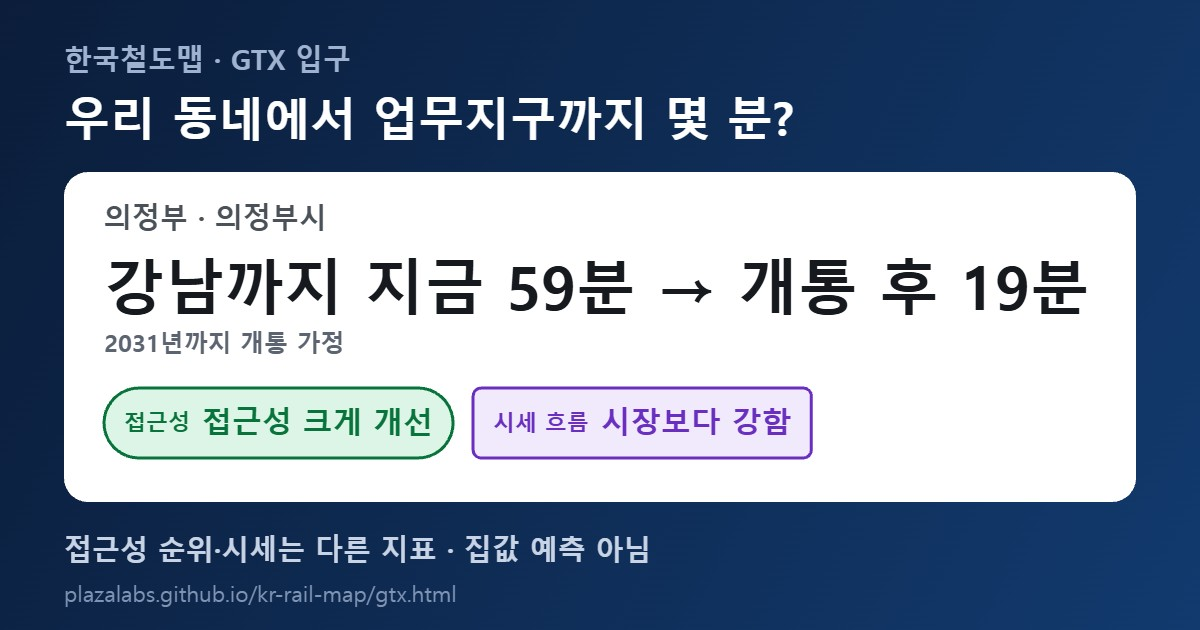
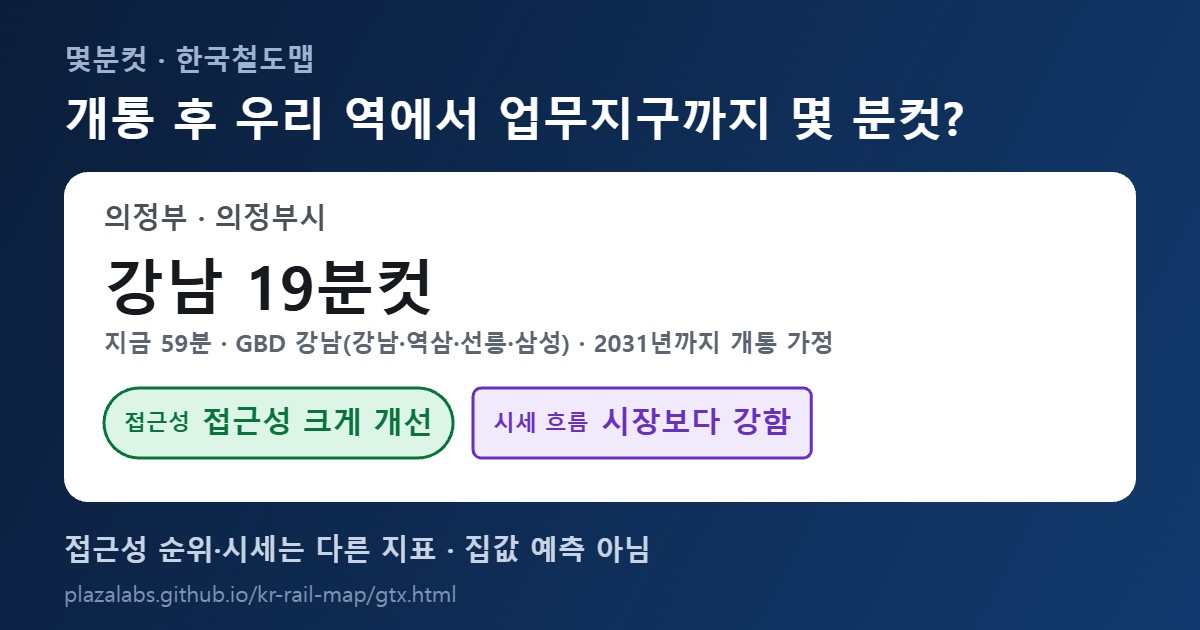
feat(84): GTX 입구 → 몇분컷 — 제목·og 에 GTX 없음, 큰 숫자 '강남 19분컷' + '지금 59분 · …' 한 줄 고정 (v311)
같음은 '컷' 없이 '{업무지구} N분 · 개통 후에도 같음', 새로 생김은 '지금은 철도로 못 감'.
공유 그림·og 그림 같은 두 줄, 이름 줄 '몇분컷 · 한국철도맵'. 파일 이름·umami 이벤트는 그대로.

Claude-Session: https://claude.ai/code/session_0191yEh2uapvYzTcVwrNJHWz

diff --git a/js/gtx-page.js b/js/gtx-page.js
@@ -1,4 +1,4 @@
-/* GTX 입구 (gtx.html) — 입력 하나 → 카드 하나.
+/* 몇분컷 (gtx.html) — 입력 하나 → 카드 하나.
  * 숫자는 data/gtx-card.json(build_gtx_card.js)·data/rank-top.json 그대로 읽는다. 여기서 세지 않는다. */
 (function () {
   'use strict';
@@ -17,10 +17,20 @@
   function bigText(x) {
     var d = x.d == null ? null : D.dest[x.d];
     if (!d) return { main: '업무지구까지 철도로 갈 수 없어요', sub: '' };
-    if (x.kd === 'new') return { main: d.name + '까지 지금은 못 감 → 개통 후 ' + x.aft[x.d] + '분', sub: d.label };
-    if (x.kd === 'same') return { main: d.name + '까지 ' + x.now[x.d] + '분 · 개통 후에도 같음', sub: d.label };
-    return { main: d.name + '까지 지금 ' + x.now[x.d] + '분 → 개통 후 ' + x.aft[x.d] + '분', sub: d.label };
+    var tail = ' · ' + d.label + ' · ' + D.year + '년까지 개통 가정';
+    // '컷'은 줄거나 새로 생길 때만. 같은데 붙이면 거짓말
+    if (x.kd === 'same') return { main: d.name + ' ' + x.now[x.d] + '분', sub: '개통 후에도 같음' + tail };
+    if (x.kd === 'new') return { main: d.name + ' ' + x.aft[x.d] + '분컷', sub: '지금은 철도로 못 감' + tail };
+    return { main: d.name + ' ' + x.aft[x.d] + '분컷', sub: '지금 ' + x.now[x.d] + '분' + tail };
   }
+  // 큰 줄은 한 줄 고정 — 넘치면 글자를 줄인다(공유 그림 fit 과 같은 생각). 줄바꿈으로 풀지 않는다
+  function fitBig() {
+    var e = document.querySelector('#card .big-main'); if (!e) return;
+    e.style.fontSize = '';
+    var s = parseFloat(getComputedStyle(e).fontSize);
+    while (s > 16 && e.scrollWidth > e.clientWidth) { s--; e.style.fontSize = s + 'px'; }
+  }
+  window.addEventListener('resize', fitBig);
   function marketOf(x) { return x.k && D.k[x.k] ? D.k[x.k] : null; }
   function marketKey(x) { var k = marketOf(x); return k ? k.m : 'none'; }
   function marketNote(x) {
@@ -37,9 +47,11 @@
     $('pick').hidden = true;
     card.innerHTML = ''; card.hidden = false; card.dataset.st = id;
     card.appendChild(el('p', 'st', x.n + (x.g ? ' · ' + x.g : '')));
-    var b = bigText(x), big = el('p', 'big', b.main);
-    if (b.sub) big.appendChild(el('small', null, b.sub + ' · ' + D.year + '년까지 개통 가정'));
+    var b = bigText(x), big = el('p', 'big'), main = el('span', 'big-main', b.main);
+    big.appendChild(main);
+    if (b.sub) big.appendChild(el('small', null, b.sub));
     card.appendChild(big);
+    fitBig();
     var chips = el('div', 'chips');
     var ca = el('button', 'chip acc'); ca.type = 'button'; ca.appendChild(el('span', null, '접근성')); ca.appendChild(document.createTextNode(G.TIER_WORD[x.t]));
     var mk = marketKey(x), cm = el('button', 'chip mk ' + mk); cm.type = 'button'; cm.appendChild(el('span', null, '시세 흐름')); cm.appendChild(document.createTextNode(G.MARKET_WORD[mk]));
@@ -90,7 +102,7 @@
     var fit = function (t, w, size, weight) { var s = size; g.font = weight + ' ' + s + 'px ' + F; while (s > 20 && g.measureText(t).width > w) { s--; g.font = weight + ' ' + s + 'px ' + F; } };
     g.fillStyle = '#c8d3e6'; fit(x.n + (x.g ? ' · ' + x.g : ''), S - 160, 44, '700'); g.fillText(x.n + (x.g ? ' · ' + x.g : ''), 80, 150);
     var b = bigText(x); g.fillStyle = '#ffffff'; fit(b.main, S - 160, 64, '800'); g.fillText(b.main, 80, 280);
-    g.fillStyle = '#9fb3d1'; fit(b.sub + ' · ' + D.year + '년까지 개통 가정', S - 160, 30, '600'); g.fillText(b.sub + ' · ' + D.year + '년까지 개통 가정', 80, 335);
+    if (b.sub) { g.fillStyle = '#9fb3d1'; fit(b.sub, S - 160, 30, '600'); g.fillText(b.sub, 80, 335); }
     var chip = function (label, word, y, color) { g.font = '600 30px ' + F; g.fillStyle = '#9fb3d1'; g.fillText(label, 80, y); g.font = '800 46px ' + F; g.fillStyle = color; g.fillText(word, 300, y); };
     chip('접근성', G.TIER_WORD[x.t], 470, '#4fd88a');
     chip('시세 흐름', G.MARKET_WORD[marketKey(x)], 560, '#c4a3ff');
@@ -99,7 +111,7 @@
     var k = marketOf(x); if (k) line('시세는 대표 동 ' + k.dong + ' 기준');
     line('접근성 순위와 시세는 다른 지표 · 집값 예측 아님');
     line('기준일 순위 ' + D.updated + ' · 시세 ' + half(D.market.from) + ' → ' + half(D.market.to));
-    g.fillStyle = '#9fb3d1'; fit('한국철도맵 · plazalabs.github.io/kr-rail-map/gtx.html', S - 160, 28, '700'); g.fillText('한국철도맵 · plazalabs.github.io/kr-rail-map/gtx.html', 80, 1030);
+    g.fillStyle = '#9fb3d1'; fit('몇분컷 · 한국철도맵 · plazalabs.github.io/kr-rail-map/gtx.html', S - 160, 28, '700'); g.fillText('몇분컷 · 한국철도맵 · plazalabs.github.io/kr-rail-map/gtx.html', 80, 1030);
     return c;
   }
   function share(id, x) {
@@ -108,14 +120,14 @@
     var url = location.origin + location.pathname + '?st=' + encodeURIComponent(id) + '&ref=card-gtx';
     shareCanvas(id, x).toBlob(function (blob) {
       if (!blob) { result('만들기 실패'); msg.textContent = '이미지를 만들지 못했어요.'; return; }
-      var name = 'GTX입구_' + x.n + '.png', file = typeof File === 'function' ? new File([blob], name, { type: 'image/png' }) : null;
+      var name = '몇분컷_' + x.n + '.png', file = typeof File === 'function' ? new File([blob], name, { type: 'image/png' }) : null;
       var save = function () {
         var a = document.createElement('a'); a.href = URL.createObjectURL(blob); a.download = name; document.body.appendChild(a); a.click(); a.remove();
         setTimeout(function () { URL.revokeObjectURL(a.href); }, 4000);
         result('저장'); msg.textContent = '카드 그림을 저장했어요. 링크: ' + url;
       };
       if (file && navigator.canShare && navigator.canShare({ files: [file] })) {
-        navigator.share({ files: [file], title: x.n + ' GTX 개통 후', text: url })
+        navigator.share({ files: [file], title: x.n + ' 몇분컷', text: url })
           .then(function () { result('공유함'); msg.textContent = '공유했어요.'; })
           .catch(function (e) { if (e && e.name === 'AbortError') result('취소'); else save(); });
       } else save();

diff --git a/gtx.html b/gtx.html
@@ -4,7 +4,7 @@
 <meta charset="utf-8">
 <meta http-equiv="Content-Security-Policy" content="default-src 'self'; script-src 'self' https://cloud.umami.is; style-src 'self' 'unsafe-inline'; img-src 'self' data: blob:; font-src 'self' data:; connect-src 'self' https://cloud.umami.is https://api-gateway.umami.dev https://gateway.umami.is; worker-src 'self' blob:; frame-src 'none'; object-src 'none'; base-uri 'self'; form-action 'self'; manifest-src 'self'">
 <meta name="viewport" content="width=device-width, initial-scale=1">
-<title>GTX 입구 | 한국철도맵</title>
+<title>몇분컷 | 한국철도맵</title>
 <meta name="description" content="역 이름이나 동 이름을 넣으면 업무지구까지 지금과 개통 후 걸리는 시간, 교통 접근성 변화, 그 동네 시세 흐름을 카드 한 장으로 보여 줍니다. 집값 예측이 아닙니다.">
 <link rel="icon" type="image/png" href="icons/icon-192.png">
 <link rel="canonical" href="https://plazalabs.github.io/kr-rail-map/gtx.html">
@@ -12,14 +12,14 @@
 <meta property="og:site_name" content="한국철도맵">
 <meta property="og:locale" content="ko_KR">
 <meta property="og:url" content="https://plazalabs.github.io/kr-rail-map/gtx.html">
-<meta property="og:title" content="GTX 개통 후 우리 동네에서 업무지구까지 몇 분? | 한국철도맵">
+<meta property="og:title" content="개통 후 우리 역에서 업무지구까지 몇 분컷? | 몇분컷">
 <meta property="og:description" content="역이나 동 이름을 넣으면 도심·여의도·강남까지 지금과 개통 후 시간, 접근성 변화, 동네 시세 흐름을 카드 한 장으로. 접근성과 시세는 다른 지표 · 집값 예측 아님.">
 <meta property="og:image" content="https://plazalabs.github.io/kr-rail-map/image/og-gtx.jpg">
 <meta property="og:image:width" content="1200">
 <meta property="og:image:height" content="630">
-<meta property="og:image:alt" content="GTX 입구 카드 예시 — 업무지구까지 지금과 개통 후 시간">
+<meta property="og:image:alt" content="몇분컷 카드 예시 — 업무지구까지 지금과 개통 후 시간">
 <meta name="twitter:card" content="summary_large_image">
-<meta name="twitter:title" content="GTX 개통 후 우리 동네에서 업무지구까지 몇 분?">
+<meta name="twitter:title" content="개통 후 우리 역에서 업무지구까지 몇 분컷? | 몇분컷">
 <meta name="twitter:description" content="업무지구까지 지금 → 개통 후 시간, 접근성 변화, 시세 흐름 — 집값 예측 아님.">
 <meta name="twitter:image" content="https://plazalabs.github.io/kr-rail-map/image/og-gtx.jpg">
 <meta name="theme-color" content="#1b64da">
@@ -41,7 +41,8 @@ header.top .wrap{padding:13px 16px;display:flex;align-items:center;gap:10px}
 .logo{font-weight:700;font-size:17px;text-decoration:none;color:var(--text);white-space:nowrap}
 header.top nav{margin-left:auto;display:flex;gap:14px;font-size:13px}
 header.top nav a{text-decoration:none;color:var(--text2);white-space:nowrap}
-h1{font-size:24px;line-height:1.3;letter-spacing:-.035em;margin:26px 0 12px}
+.name{font-size:14px;font-weight:800;color:var(--accent);margin:26px 0 4px}
+h1{font-size:24px;line-height:1.3;letter-spacing:-.035em;margin:0 0 12px}
 .lede{color:var(--text2);font-size:14px;margin:0 0 14px}
 .search{position:relative}
 .search input{width:100%;font:inherit;font-size:18px;padding:14px 16px;border:2px solid var(--accent);border-radius:14px;background:var(--card);color:var(--text);min-height:52px}
@@ -56,6 +57,7 @@ h1{font-size:24px;line-height:1.3;letter-spacing:-.035em;margin:26px 0 12px}
 .card{margin:20px 0 0;padding:22px 20px;border-radius:var(--r-card);background:var(--card);box-shadow:var(--shadow);border:1px solid var(--border)}
 .card .st{font-size:15px;font-weight:700;margin:0 0 6px}
 .big{font-size:30px;font-weight:800;letter-spacing:-.03em;line-height:1.25;margin:4px 0 14px}
+.big-main{display:block;white-space:nowrap;overflow:hidden}
 .big small{display:block;font-size:14px;font-weight:600;color:var(--text2);letter-spacing:0}
 .chips{display:flex;gap:10px;flex-wrap:wrap;margin:0 0 14px}
 .chip{display:inline-flex;align-items:center;gap:8px;min-height:44px;padding:8px 14px;font-size:15px;font-weight:700;cursor:pointer;background:none}
@@ -82,7 +84,8 @@ footer{font-size:12px;color:var(--muted);margin:30px 0 0}
 <header class="top"><div class="wrap"><a class="logo" href="./">한국철도맵</a>
 <nav><a href="./">지도</a><a href="rank.html">순위</a><a href="data.html">자료</a></nav></div></header>
 <main class="wrap">
-<h1>우리 동네, GTX 개통 후 업무지구까지 몇 분?</h1>
+<p class="name">몇분컷</p>
+<h1>개통 후 우리 역에서 업무지구까지 몇 분컷?</h1>
 <p class="lede">교통 접근성과 시세 흐름을 따로 보여 줍니다. 둘은 서로 다른 지표이며 집값·투자수익 예측이 아닙니다.</p>
 <div class="search" role="search">
   <label for="q" class="small">역 이름이나 동 이름</label>

diff --git a/data/build_og_gtx.js b/data/build_og_gtx.js
@@ -1,7 +1,8 @@
-/* GTX 입구 링크 미리보기 그림 — image/og-gtx.jpg (1200×630, JPEG)
+/* 몇분컷(gtx.html) 링크 미리보기 그림 — image/og-gtx.jpg (1200×630, JPEG)
  *
  * 실행: node data/build_og_gtx.js   (build_gtx_card.js 뒤. 헤드리스 크롬으로 캔버스를 그려 저장 — build_og_rank.js 와 같은 방식)
  * 정적 사이트라 역마다 다른 그림은 못 만든다 — 공용 하나. 큰 숫자 예시는 홈 TOP1 역의 카드 값(gtx-card.json) 그대로.
+ * 큰 숫자 두 줄은 화면 카드(js/gtx-page.js bigText)와 같은 말: '{업무지구} N분컷' / '지금 N분 · {라벨}'.
  * 카드 규칙의 금지어('떡상'·'계단' 등)를 쓰지 않는다.
  */
 'use strict';
@@ -21,7 +22,8 @@ const d = card.dest[x.d];
 const mk = x.k && card.k[x.k] ? card.k[x.k].m : 'none';
 const ex = {
   st: x.n + (x.g ? ' · ' + x.g : ''),
-  big: d.name + '까지 지금 ' + x.now[x.d] + '분 → 개통 후 ' + x.aft[x.d] + '분',
+  big: d.name + ' ' + x.aft[x.d] + '분컷',
+  sub: '지금 ' + x.now[x.d] + '분 · ' + d.label + ' · ' + card.year + '년까지 개통 가정',
   acc: G.TIER_WORD[x.t], mk: G.MARKET_WORD[mk], year: card.year,
 };
 const words = Object.values(ex).join(' ');
@@ -33,13 +35,13 @@ const E = ${JSON.stringify(ex)};
 const g = document.getElementById('c').getContext('2d'), F = '"Malgun Gothic","Apple SD Gothic Neo",sans-serif';
 const bg = g.createLinearGradient(0, 0, 1200, 630); bg.addColorStop(0, '#0b1d3a'); bg.addColorStop(1, '#123a6e'); g.fillStyle = bg; g.fillRect(0, 0, 1200, 630);
 const rr = (x, y, w, h, r) => { g.beginPath(); g.roundRect ? g.roundRect(x, y, w, h, r) : g.rect(x, y, w, h); };
-g.fillStyle = '#9fb3d1'; g.font = '600 28px ' + F; g.fillText('한국철도맵 · GTX 입구', 64, 70);
-g.fillStyle = '#fff'; g.font = '800 46px ' + F; g.fillText('우리 동네에서 업무지구까지 몇 분?', 64, 136);
+g.fillStyle = '#9fb3d1'; g.font = '600 28px ' + F; g.fillText('몇분컷 · 한국철도맵', 64, 70);
+g.fillStyle = '#fff'; g.font = '800 46px ' + F; g.fillText('개통 후 우리 역에서 업무지구까지 몇 분컷?', 64, 136);
 // 카드
 rr(64, 172, 1072, 330, 24); g.fillStyle = '#ffffff'; g.fill();
 g.fillStyle = '#4a5158'; g.font = '700 28px ' + F; g.fillText(E.st, 104, 228);
 g.fillStyle = '#16191d'; let s = 60; g.font = '800 ' + s + 'px ' + F; while (g.measureText(E.big).width > 990) { s--; g.font = '800 ' + s + 'px ' + F; } g.fillText(E.big, 104, 310);
-g.fillStyle = '#5b6470'; g.font = '600 24px ' + F; g.fillText(E.year + '년까지 개통 가정', 104, 352);
+g.fillStyle = '#5b6470'; s = 24; g.font = '600 ' + s + 'px ' + F; while (g.measureText(E.sub).width > 990) { s--; g.font = '600 ' + s + 'px ' + F; } g.fillText(E.sub, 104, 352);
 const chip = (x, label, word, fg, bgc, round) => { g.font = '800 30px ' + F; const w = g.measureText(word).width; g.font = '600 22px ' + F; const lw = g.measureText(label).width;
   const W = lw + w + 52; rr(x, 388, W, 70, round); g.fillStyle = bgc; g.fill(); g.lineWidth = 3; g.strokeStyle = fg; g.stroke();
   g.fillStyle = fg; g.font = '600 22px ' + F; g.fillText(label, x + 20, 431); g.font = '800 30px ' + F; g.fillText(word, x + 32 + lw, 433); return x + W + 20; };

diff --git a/data.html b/data.html
@@ -342,8 +342,8 @@ ODbL이 말하는 결과물(Produced Work)이라 지켜야 할 것은 출처 표
 </tbody></table></div>
 <!-- plans:end -->
 
-<h2 id="gtx-card">GTX 입구 카드 계산 방법</h2>
-<p><a href="gtx.html">GTX 입구</a> 카드는 교통 접근성과 시세 흐름을 <b>따로</b> 보여 줍니다. 둘을 한 점수로 합치지 않으며 집값 예측이 아닙니다. 값은 data/gtx-card.json 에 있습니다.</p>
+<h2 id="gtx-card">몇분컷 카드 계산 방법</h2>
+<p><a href="gtx.html">몇분컷</a> 카드는 교통 접근성과 시세 흐름을 <b>따로</b> 보여 줍니다. 둘을 한 점수로 합치지 않으며 집값 예측이 아닙니다. 값은 data/gtx-card.json 에 있습니다.</p>
 <ul class="plain">
 <li><b>큰 숫자</b> — 도심(CBD)·여의도(YBD)·강남(GBD) 세 업무지구 중 지금보다 개통 후 가장 많이 줄어드는 곳 하나를 씁니다. 줄어든 분이 같으면 개통 후가 더 짧은 곳, 그래도 같으면 도심 → 여의도 → 강남 순입니다.
 지금 철도로 못 가는 역은 개통 후 가장 가까운 곳, 줄어드는 곳이 없으면 지금 가장 가까운 곳을 씁니다. 시간은 순위표와 같은 값(2031년까지 개통 가정, 배차 넣기 끔)입니다.</li>

diff --git a/sw.js b/sw.js
@@ -4,11 +4,11 @@
  *  - GeoJSON 데이터: Cache First (최초 로드 후 캐시)
  *  - 지도 타일: Network First (오프라인이면 캐시된 타일만, 최대 200개)
  */
-const APP_CACHE = 'kr-rail-map-app-v310';
+const APP_CACHE = 'kr-rail-map-app-v311';
 // 실거래 자료 달 — 매달 자동 갱신(.github/workflows/data-refresh.yml)이 바꾼다. 데이터는 캐시 우선이라
 // 이름이 바뀌어야 다시 찾은 사람도 새 시세를 받는다.
 const DATA_REV = '202609';
-const DATA_CACHE = 'kr-rail-map-data-v310-r' + DATA_REV;
+const DATA_CACHE = 'kr-rail-map-data-v311-r' + DATA_REV;
 const TILE_CACHE = 'kr-rail-map-tiles-v1';
 const MAX_TILE_ENTRIES = 200;
 

diff --git a/CHANGELOG.md b/CHANGELOG.md
@@ -4,6 +4,7 @@
 코드 안에 날짜·피드백 번호 주석을 다는 대신 여기에 적는다.
 
 ## 2026-11-21
+- 2026-11-21 · v311 · 숙제 84 (회장 결정 11-21) · **GTX 입구 → 몇분컷 + 큰 숫자 한 줄** — gtx.html 제목·og:title·og:image:alt·twitter:title·화면 제목에서 'GTX 입구'와 'GTX' 글자를 뺌('몇분컷 | 한국철도맵', og:title '개통 후 우리 역에서 업무지구까지 몇 분컷? | 몇분컷', og:site_name 은 한국철도맵 그대로). 큰 숫자를 '강남까지 지금 59분 → 개통 후 19분' 한 줄에서 두 줄로: 큰 줄 '강남 19분컷', 작은 줄 '지금 59분 · GBD 강남(…) · 2031년까지 개통 가정'. 새로 생김은 '지금은 철도로 못 감 · …', 같음은 큰 줄 '여의도 22분'(오류동, 컷 없음) + '개통 후에도 같음 · …'. 큰 줄은 한 줄 고정, 넘치면 글자를 줄임(줄바꿈 안 함). 공유 그림 같은 두 줄, 이름 줄 '몇분컷 · 한국철도맵 · …/gtx.html', 저장 파일 이름 '몇분컷_역.png'. og 그림 image/og-gtx.jpg 다시 구움. data.html 절 이름·링크 글자 '몇분컷'. 파일 이름(gtx.html·gtx-card.json·gtx-page.js)·umami 이벤트('GTX 입구 검색'·card-gtx)는 그대로. 회귀 R-84(e2e 7 · 데이터 1, 먼저 실패 확인), R-81 큰 줄 기대를 새 글자로.
 - 2026-11-21 · v309 · 숙제 83 · **gtx.html 링크 미리보기** — og/twitter 태그가 0개라 카톡에 링크를 붙이면 그림 없이 떴다. rank.html·index.html 과 같은 형식으로 og:type·site_name·locale·url·title·description('집값 예측 아님' 포함)·image(1200×630)·twitter:card 추가. 그림 image/og-gtx.jpg 는 data/build_og_gtx.js 가 홈 TOP1 역(의정부)의 gtx-card.json 값으로 카드 모양을 그림('강남까지 지금 59분 → 개통 후 19분' · 접근성 크게 개선 · 시장보다 강함 · '접근성 순위·시세는 다른 지표 · 집값 예측 아님'), 금지어 있으면 멈춤. 정적 사이트라 역마다 다른 미리보기는 없음 — 공용 하나. 회귀 R-83(태그·그림 1200×630 JPEG, 먼저 실패 확인).
 - 2026-11-21 · v308 · 숙제 81 검수 · **GTX 입구 자세히 보기 고침** — 전세가율이 없는 역(짝 3개 미만, 보산 j=[null,1])이 '전세가율 0%'로 나오던 것 → '비율 없음 (짝 3개 미만)'. 중위 평당가가 station-price(다른 기간) 값이라 옆의 반기 거래 건수와 기간이 달랐던 것 → 시세 라벨과 같은 station-trend 의 비교 끝 반기(2026 상반기) 법정동 중위값, '전용면적 기준, 2026 상반기' 표시(의정부동 2,344 → 2,403만 원). data.html 에 'GTX 입구 카드 계산 방법' 절(#gtx-card), 카드 '계산 방법' 링크를 그 절로. 회귀 R-81 3개 먼저 실패 확인.
 - 2026-11-21 · v307 · 숙제 81 · **GTX 입구 gtx.html (MVP)** — 역·동 이름 하나 넣으면 카드 한 장: 업무지구 하나까지 '지금 N분 → 개통 후 M분'(CBD·YBD·GBD 중 가장 많이 줄어든 곳, rank.json now·y[2031]), 접근성 말(rank-page 공유 그림과 같은 표기) 칩, 시세 흐름 칩(법정동 2025H1→2026H1 중위 평당가 변화율, 라벨 동 282곳의 25/75% 선형 보간 경계, 두 반기 중 하나라도 10건 미만이면 판단 보류, 자료 없는 역은 '시세 자료 없음'). 두 칩은 색·모양이 달라 한 점수로 읽히지 않게. 자료는 data/gtx-card.json(build_gtx_card.js, 순위가 rank-station.json 과 다르면 빌드 멈춤). 공유 card-gtx, 새 이벤트 'GTX 입구 검색'. 기준 문서 결정_GTX입구_20261121.md.

diff --git a/docs/RUN-LOG.md b/docs/RUN-LOG.md
@@ -289,3 +289,11 @@
 - rank-top.json · rank-station.json: 바이트까지 같음(의정부·인천대입구·덕정 2031). rank.json 은 lines.y 말고 같음
 - 길찾기 비교 카드에서 GTX-G·H 는 전 '(계획 · 2030년대)'(설명 글 그대로) → 후 '(계획)'. 연도 없는 노선은 상태 말만 — 지도 라벨(74)과 같은 규칙
 | 76 | 노선 글자 함수 하나로: js/line-status.js `LineStatus.label(m)`(계획·구상 '이름 (상태 말)', 공사 중 '이름 연도' — 연도는 77 의 y). station-share.js planLabel 은 그것을 부르기만, rank-page.js 공유 그림(손으로 베낀 사본, '(계획)' 고정)도 같은 함수. rank.html 에 line-status.js 를 rank-page.js 앞에. sw.js v310. rank.html 광운대 공유 그림 '새 노선 GTX-C 2031 · GTX-E (계획)' → 'GTX-E (구상)', 수서 'GTX-D (계획)' 그대로. R-76 e2e 2개(공유 그림 글자 · 공유 단추 눌러도 페이지 오류 0) + 데이터 1개(같은 함수 · 스크립트 순서 · 값) 먼저 실패 확인 → 통과. task-life.e2e 의 옛 기대('GTX-E (계획)', 66 전 규칙)를 '(구상)'으로. 데이터 60 통과/2 실패, 단위 72/72, e2e rank 35/0·share-line 8/0·line-status 30/0·task-life 11/0·rocket-panel 37/0·home-cards 10/0, Playwright 전체 34 통과/10 실패 — 10개(E-02·03·21·22·31·32·40~43)는 INVARIANTS.md 에 이미 FAIL, E-02·E-03 은 6e13858(블록 전)에서도 같은 오류(시험 쪽 정규식 null)로 실패 | (이 커밋) | 데이터 2 |
+
+## 블록 G (2026-11-21 저녁, 지시서 `지시서_블록G_20261121.md`)
+시작 기준선: main c57143e(v310, 블록 F 배포 끝) · 데이터 시험 61 통과 / 실패 2(D-13·D-15) · 시험 출력 `scratch/blockG/`. 순서 84 → 85. 걸리는 시간 미리 말함: 3~4시간
+
+### 숙제별 한 줄
+| 번호 | 한 일 | 커밋 | 남은 실패 |
+|---|---|---|---|
+| 84 | GTX 입구 → 몇분컷. gtx.html title·og:title·og:image:alt·twitter:title·h1 에 'GTX' 0(og:site_name 한국철도맵 그대로), 이름 줄 '몇분컷'. 큰 숫자 bigText: 큰 줄 '{업무지구} N분컷'(같음은 '{업무지구} N분', 컷 없음) + 작은 줄 '지금 N분 / 지금은 철도로 못 감 / 개통 후에도 같음 · {label} · 2031년까지 개통 가정'. 큰 줄 `.big-main` 한 줄 고정 + 넘치면 글자 줄임(fitBig, resize 때 다시). 공유 그림 두 줄·이름 줄 '몇분컷 · 한국철도맵 · …/gtx.html'·파일 이름 '몇분컷_역.png'. og-gtx.jpg 다시 구움('몇분컷 · 한국철도맵' / '강남 19분컷' / '지금 59분 · GBD 강남(…) · 2031년까지 개통 가정', 눈으로 확인). data.html 절 이름·링크 '몇분컷'. R-84 e2e 7(의정부 cut·오류동 same·동명초교(가칭) new·360/390px 회기·의정부 한 줄·태그) + 데이터 1 → 고치기 전 e2e 6 실패·데이터 1 실패 확인 → 고친 뒤 gtx-page 12/0, og-gtx 3/0, gtx-card·contrast-pages·csp-pages·no-emoji·track 통과, 데이터 61/2. 파일 이름·umami 이벤트 그대로 | (이 커밋) | 데이터 2 |

diff --git a/docs/TODO.md b/docs/TODO.md
@@ -89,6 +89,8 @@
 - [x] 81. (지시서 블록 E 11-21) GTX 입구 MVP — gtx.html · data/gtx-card.json (v307, push 전). 보고 `구현보고_GTX입구_20261121.md`. 상세 `TASK_GTX입구_MVP_20261121.md`, 기준 `결정_GTX입구_20261121.md`
 - [ ] 82. (다음 블록 후보, 검수 11-21) 길찾기 중 updateFilters(노선 표시 바꾸기)가 station-labels filter 를 덮어 경로 역 원래 글자가 다시 나옴 — app.js updateFilters 의 station-labels setFilter vs highlightRoute 의 경로 역 빼기 filter
 - [x] 83. (검수 11-21, 배포본 v308) gtx.html 링크 미리보기(og·twitter 태그) 없음 → 태그 + 공용 그림 image/og-gtx.jpg (v309)
+- [x] 84. (지시서 블록 G 11-21, 회장 결정 `결정_앱이름_20261121.md` 추가 결정) GTX 입구 → 몇분컷. gtx.html 제목·og 에 'GTX' 없음, 공유 그림 이름 줄 '몇분컷 · 한국철도맵', 큰 숫자 '{업무지구} N분컷'(같음은 '컷' 없음) + 작은 줄 '지금 N분 · …', 휴대폰에서 큰 줄 한 줄 고정
+- [ ] 85. (지시서 블록 G 11-21, 회장 결정) 화면 글자 '떡상' → '축지법' (랭킹·TOP 10·지도·패널), 단계 이름 '떡상' → '축지법급'. 코드 이름·파일 이름·umami 이벤트·금지어 목록은 그대로
 - [ ] 86. (회장 결정 11-21, 블록 F 질문 ② — 블록 G 에 같이) 계획 노선 연도 표기를 지도 규칙(74)으로 통일: '이름 (상태 말 · 연도)', 연도 null 이면 '이름 (상태 말)', 공사 중은 '이름 연도'. 연도는 open_year(rank.json lines.y). rank.html 카드(rank-page.js nl-yr 'GTX-D 2035년')·공유 그림·앱 공유 카드(station-share.js)·길찾기 비교 카드(route-compare.js lineStatusLabel '(계획 · 2035년)') 모두 LineStatus.label 하나로. 지금: 지도 'GTX-D 계획 · 2035' / rank.html 카드 'GTX-D 2035년' / 공유 그림 'GTX-D (계획)' / 길찾기 비교 'GTX-D (계획 · 2035년)'
 
 ## 4단계: 미래 노선 정리
